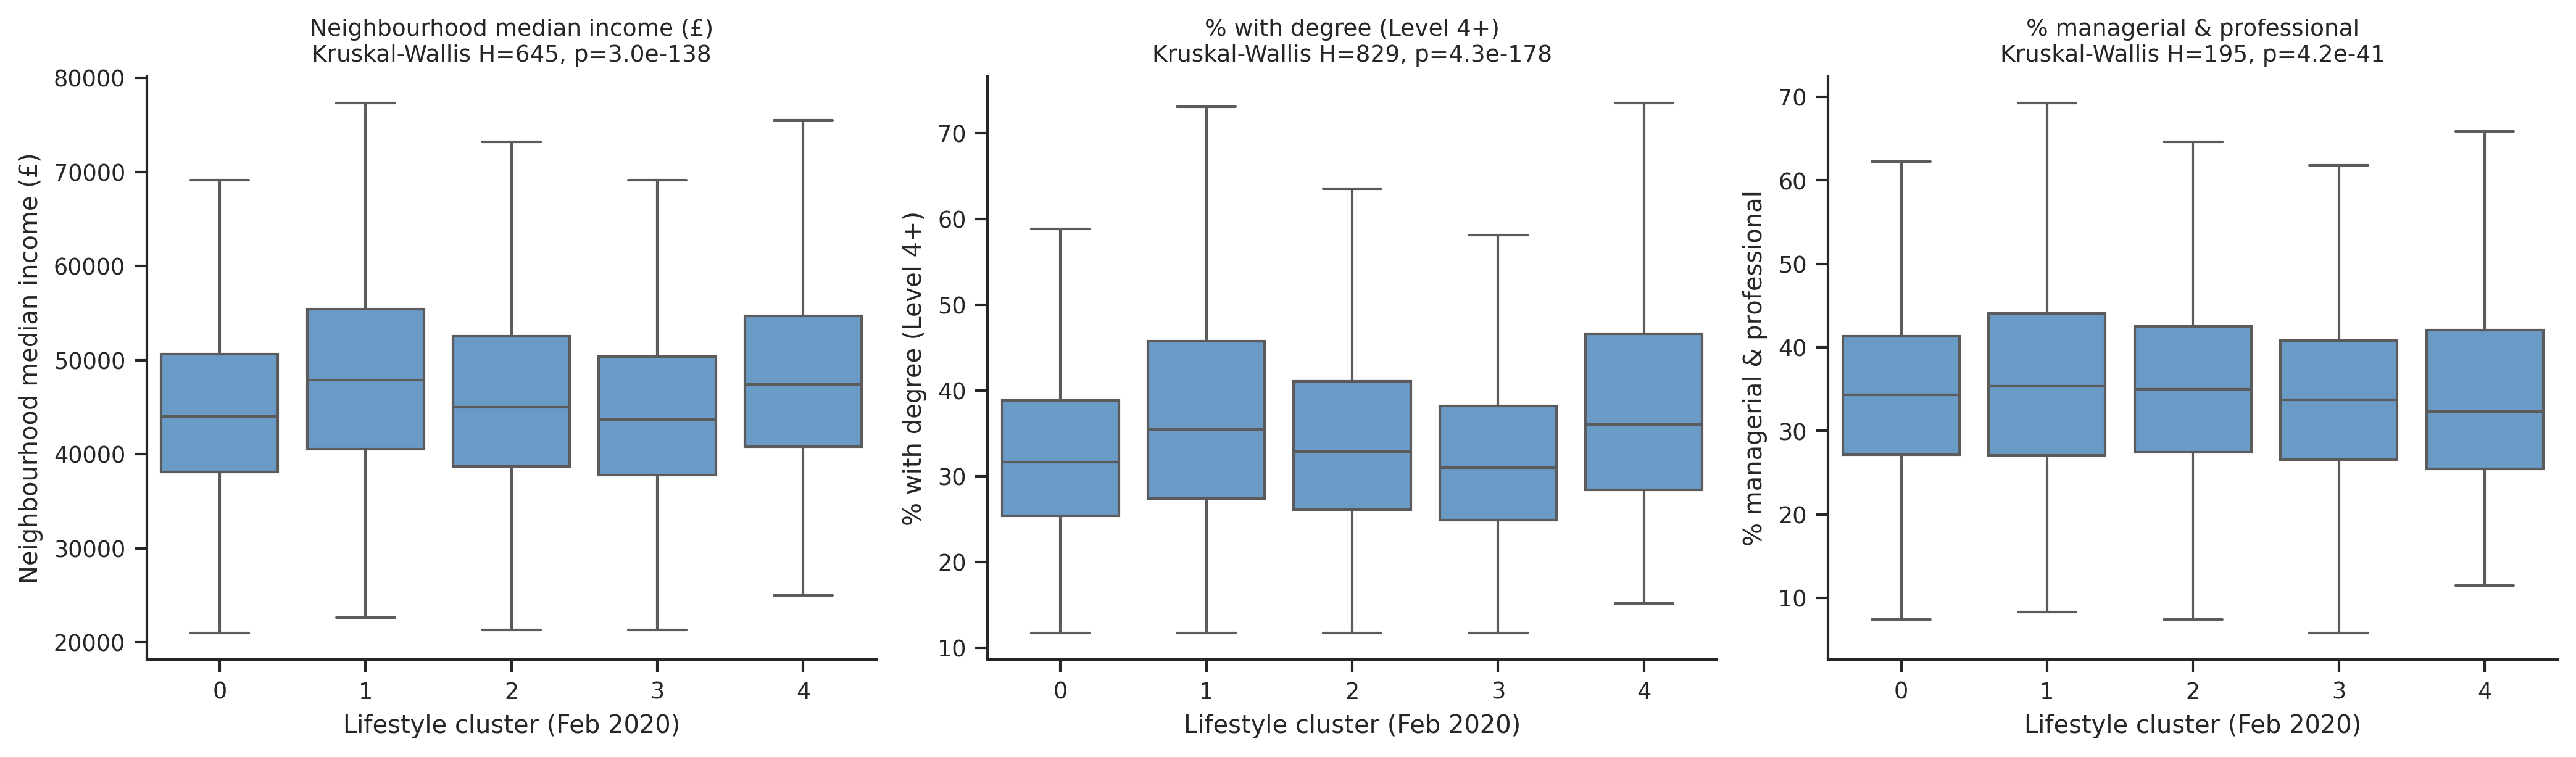
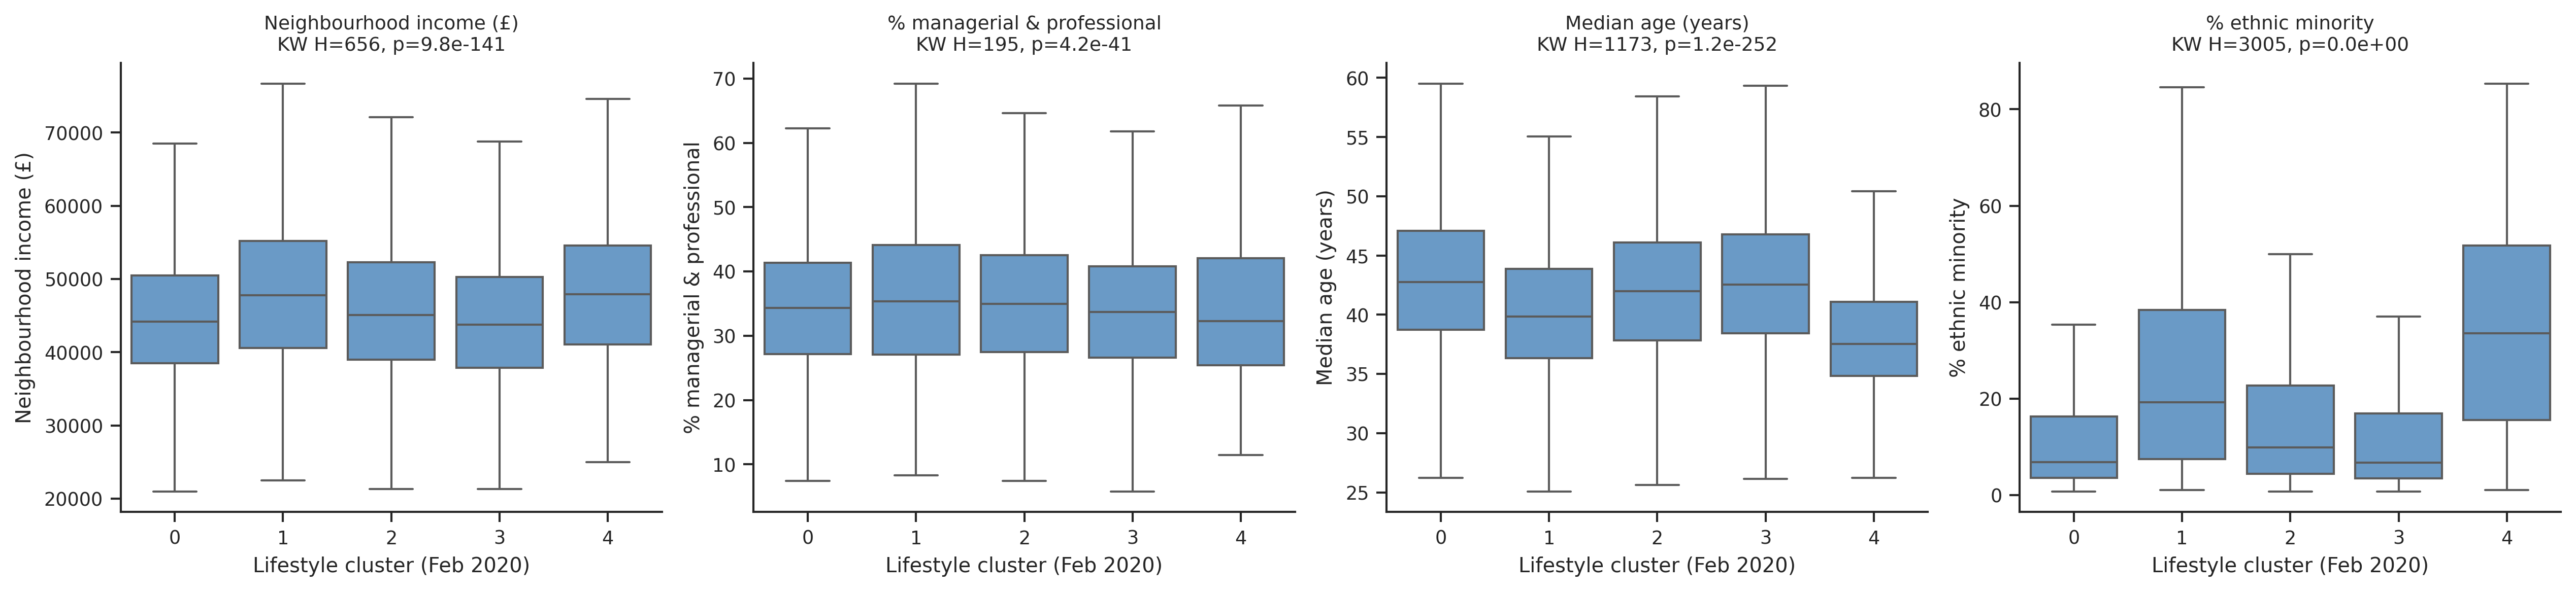
Extend SES analysis to 4 neighbourhood dimensions (income/occupation/age/ethnicity)
ses_analysis: now covers income (MSOA-aggregated), occupation (TS062 % managerial/
professional), and demographics age (TS007a median age) + ethnicity (TS021 % non-White),
all at MSOA level.
- A_ses_by_cluster.png  : 4 dimensions by lifestyle cluster (+ Kruskal-Wallis)
- B_stability_by_ses.png: cluster stability Feb2020->Mar2021 by tercile of each dimension
Inertia higher in lower-income/older/less-diverse areas; lower in affluent/young/diverse.

Device-level table and Census bulk files not committed (only figures + script + README).

diff --git a/ses_analysis/ses_analysis.py b/ses_analysis/ses_analysis.py
@@ -1,11 +1,14 @@
 #!/usr/bin/env python
 """
 Socioeconomic heterogeneity of lifestyle clusters and behavioral inertia.
-  - Clusters: reproduce the paper's KMeans (k=5, reference-aligned) from England_ML.csv
-  - Home geography + income: final_analysis_data.csv (device -> home MSOA, income_2018)
-  - Census SES (2021, MSOA): TS067 education (% Level 4+), TS062 NS-SeC (% managerial/professional)
-  Analysis A: boxplots of SES by lifestyle cluster (+ Kruskal-Wallis)
-  Analysis B: lifestyle-cluster stability (2020-02 -> 2021-03) by SES group (+ chi-square)
+Four neighbourhood (MSOA-level) dimensions:
+  income           - income_2018 aggregated to MSOA mean (native value is ~LSOA-level)
+  occupational     - pct_manag_prof : Census 2021 TS062 NS-SeC, % managerial & professional
+  demographic/age  - median_age     : Census 2021 TS007a (from 5-year bands)
+  demographic/eth  - pct_minority   : Census 2021 TS021, % non-White
+Clusters = paper's KMeans (k=5, reference-aligned) from England_ML.csv; linked via home MSOA.
+  Analysis A: boxplots of each dimension by lifestyle cluster (+ Kruskal-Wallis)
+  Analysis B: cluster stability (Feb 2020 -> Mar 2021) by tercile of each dimension (+ chi-square)
 """
 import warnings; warnings.filterwarnings("ignore")
 import os, io, zipfile
@@ -18,12 +21,9 @@ import matplotlib; matplotlib.use("Agg")
 import matplotlib.pyplot as plt
 import seaborn as sns
 
-ML = "/workplace/Mob/ML"
-FA = "/workplace/Mob/fig_output/final_analysis_data.csv"
-CEN = "/workplace/Mob/census_2021"
-OUT = "/workplace/Mob/ses_analysis"; os.makedirs(OUT, exist_ok=True)
-BASE = ['workplace_frequency', 't1_frequency', 't3_frequency', 't5_frequency',
-        't6_frequency', 't8_frequency', 't9_frequency']
+ML = "/workplace/Mob/ML"; FA = "/workplace/Mob/fig_output/final_analysis_data.csv"
+CEN = "/workplace/Mob/census_2021"; OUT = "/workplace/Mob/ses_analysis"; os.makedirs(OUT, exist_ok=True)
+BASE = ['workplace_frequency','t1_frequency','t3_frequency','t5_frequency','t6_frequency','t8_frequency','t9_frequency']
 REF = np.array([[0.4,1.2,0.4,0.9,1.0,1.9,0.3],[0.6,4.7,1.5,3.0,3.3,6.5,0.8],
                 [0.6,2.6,0.9,1.8,2.0,3.8,0.6],[0.8,1.2,0.4,0.9,0.9,1.9,0.2],
                 [0.7,8.9,2.9,5.4,6.2,12.1,1.2]])
@@ -31,100 +31,110 @@ REF = np.array([[0.4,1.2,0.4,0.9,1.0,1.9,0.3],[0.6,4.7,1.5,3.0,3.3,6.5,0.8],
 
 def get_clusters():
     df = pd.read_csv(f"{ML}/England_ML.csv")
-    feb = df[df.month == 202002].copy(); mar = df[df.month == 202003].copy(); mar21 = df[df.month == 202103].copy()
+    feb = df[df.month==202002].copy(); mar = df[df.month==202003].copy(); mar21 = df[df.month==202103].copy()
     for c in BASE:
-        feb[f"{c}_z"] = stats.zscore(feb[c]); mar[f"{c}_z"] = stats.zscore(mar[c]); mar21[f"{c}_z"] = stats.zscore(mar21[c])
-    mar21.columns = ['device_aid'] + [c + '_202103' for c in mar21.columns[1:]]
-    tem = feb.merge(mar, on='device_aid', how='inner', suffixes=('_202002', '_202003'))
-    ds = tem.merge(mar21, on='device_aid', how='inner', suffixes=('', '_202103'))
+        feb[f"{c}_z"]=stats.zscore(feb[c]); mar[f"{c}_z"]=stats.zscore(mar[c]); mar21[f"{c}_z"]=stats.zscore(mar21[c])
+    mar21.columns = ['device_aid'] + [c+'_202103' for c in mar21.columns[1:]]
+    tem = feb.merge(mar, on='device_aid', how='inner', suffixes=('_202002','_202003'))
+    ds = tem.merge(mar21, on='device_aid', how='inner', suffixes=('','_202103'))
     z = [f"{x}_z" for x in BASE]
-    X02 = ds[[i + '_202002' for i in z]].copy(); X03 = ds[[i + '_202003' for i in z]].copy(); X13 = ds[[i + '_202103' for i in z]].copy()
-    g = ['workplace', 'a1', 'a3', 'a5', 'a6', 'a8', 'a9']; X02.columns = X03.columns = X13.columns = g
-    k = 5; lab = KMeans(n_clusters=k, random_state=42, n_init=10).fit(pd.concat([X02, X03, X13])).labels_
-    n2 = len(X02)
-    ds['cluster_202002'] = lab[:n2]; ds['cluster_202003'] = lab[n2:2*n2]; ds['cluster_202103'] = lab[2*n2:]
-    feb_cols = [f'{c}_202002' for c in BASE]
-    mine = ds.groupby('cluster_202002')[feb_cols].mean().reindex(range(k)).values
-    r, c = linear_sum_assignment(cdist(mine, REF)); remap = {int(a): int(b) for a, b in zip(r, c)}
-    for col in ['cluster_202002', 'cluster_202003', 'cluster_202103']:
-        ds[col] = ds[col].map(remap)
-    print(f"[INFO] clustered devices: {len(ds):,}  | remap mine->ref {remap}")
-    return ds[['device_aid', 'cluster_202002', 'cluster_202003', 'cluster_202103']]
+    X = [ds[[i+s for i in z]].copy() for s in ['_202002','_202003','_202103']]
+    g = ['workplace','a1','a3','a5','a6','a8','a9']
+    for x in X: x.columns = g
+    lab = KMeans(n_clusters=5, random_state=42, n_init=10).fit(pd.concat(X)).labels_
+    n2 = len(X[0])
+    ds['cluster_202002']=lab[:n2]; ds['cluster_202003']=lab[n2:2*n2]; ds['cluster_202103']=lab[2*n2:]
+    mine = ds.groupby('cluster_202002')[[f'{c}_202002' for c in BASE]].mean().reindex(range(5)).values
+    r,c = linear_sum_assignment(cdist(mine, REF)); remap = {int(a):int(b) for a,b in zip(r,c)}
+    for col in ['cluster_202002','cluster_202003','cluster_202103']: ds[col] = ds[col].map(remap)
+    print(f"[INFO] clustered devices: {len(ds):,} | remap {remap}")
+    return ds[['device_aid','cluster_202002','cluster_202003','cluster_202103']]
+
+
+def _read_msoa(tbl):
+    z = zipfile.ZipFile(f"{CEN}/{tbl}.zip")
+    return pd.read_csv(io.BytesIO(z.read([n for n in z.namelist() if 'msoa' in n][0])))
 
 
 def census_ses():
-    z67 = zipfile.ZipFile(f"{CEN}/ts067.zip"); edu = pd.read_csv(io.BytesIO(z67.read("census2021-ts067-msoa.csv")))
-    tcol = [c for c in edu.columns if 'Total' in c][0]
-    edu['pct_degree'] = edu['Highest level of qualification: Level 4 qualifications and above'] / edu[tcol] * 100
-    edu = edu[['geography code', 'pct_degree']].rename(columns={'geography code': 'msoa'})
-    z62 = zipfile.ZipFile(f"{CEN}/ts062.zip"); occ = pd.read_csv(io.BytesIO(z62.read([n for n in z62.namelist() if 'msoa' in n][0])))
+    # occupation: NS-SeC managerial & professional (L1-L6)
+    occ = _read_msoa("ts062")
     tot = occ[[c for c in occ.columns if 'Total: All usual residents' in c][0]]
-    hi = occ[[c for c in occ.columns if 'L1, L2 and L3' in c][0]]
-    lo = occ[[c for c in occ.columns if 'L4, L5 and L6' in c][0]]
-    occ['pct_manag_prof'] = (hi + lo) / tot * 100
-    occ = occ[['geography code', 'pct_manag_prof']].rename(columns={'geography code': 'msoa'})
-    return edu.merge(occ, on='msoa', how='outer')
+    hi = occ[[c for c in occ.columns if 'L1, L2 and L3' in c][0]]; lo = occ[[c for c in occ.columns if 'L4, L5 and L6' in c][0]]
+    occ['pct_manag_prof'] = (hi+lo)/tot*100
+    out = occ[['geography code','pct_manag_prof']].rename(columns={'geography code':'msoa'})
+    # age: median age from 5-year bands
+    age = _read_msoa("ts007a")
+    band_cols = [c for c in age.columns if c.startswith('Age: Aged')]
+    lowers = [0,5,10,15,20,25,30,35,40,45,50,55,60,65,70,75,80,85]
+    widths = [5]*17 + [10]
+    counts = age[band_cols].values.astype(float); total = counts.sum(axis=1)
+    cum = np.cumsum(counts, axis=1); half = total/2
+    med = np.empty(len(age))
+    for i in range(len(age)):
+        b = np.searchsorted(cum[i], half[i])
+        F = cum[i, b-1] if b > 0 else 0.0
+        f = counts[i, b] if counts[i, b] > 0 else 1.0
+        med[i] = lowers[b] + (half[i]-F)/f * widths[b]
+    age['median_age'] = med
+    out = out.merge(age[['geography code','median_age']].rename(columns={'geography code':'msoa'}), on='msoa', how='outer')
+    # ethnicity: % non-White
+    eth = _read_msoa("ts021")
+    etot = eth[[c for c in eth.columns if c.endswith('Total: All usual residents')][0]]
+    white = eth['Ethnic group: White']
+    eth['pct_minority'] = (etot-white)/etot*100
+    out = out.merge(eth[['geography code','pct_minority']].rename(columns={'geography code':'msoa'}), on='msoa', how='outer')
+    return out
 
 
-# ---------------- join ----------------
+# ---------------- join (everything at MSOA) ----------------
 clusters = get_clusters()
-geo = pd.read_csv(FA, usecols=['device_aid', 'home_2021_msoa_code', 'income_2018']).rename(columns={'home_2021_msoa_code': 'msoa'})
+geo = pd.read_csv(FA, usecols=['device_aid','home_2021_msoa_code','income_2018']).rename(columns={'home_2021_msoa_code':'msoa'})
 geo['income_2018'] = pd.to_numeric(geo['income_2018'], errors='coerce')
-ses = census_ses()
-d = clusters.merge(geo, on='device_aid', how='left')
+# income -> MSOA mean (uniform MSOA level; native income_2018 is ~LSOA-level)
+inc_msoa = geo.groupby('msoa')['income_2018'].mean().rename('income_msoa')
+d = clusters.merge(geo[['device_aid','msoa']], on='device_aid', how='left')
 matched = d['msoa'].notna()
-print(f"[INFO] clustered with home geo: {matched.sum():,} / {len(d):,} ({matched.mean():.1%})")
-# selection check: cluster distribution matched vs unmatched
-chk = pd.concat([d[matched]['cluster_202002'].value_counts(normalize=True).rename('matched'),
-                 d[~matched]['cluster_202002'].value_counts(normalize=True).rename('unmatched')], axis=1).sort_index()
-print("[INFO] cluster_202002 share (matched vs unmatched):\n", (chk * 100).round(1).to_string())
-d = d[matched].merge(ses, on='msoa', how='left')
+print(f"[INFO] clustered with home MSOA: {matched.sum():,}/{len(d):,} ({matched.mean():.1%})")
+d = d[matched].merge(inc_msoa, on='msoa', how='left').merge(census_ses(), on='msoa', how='left')
 
-SES_VARS = [('income_2018', 'Neighbourhood median income (£)'),
-            ('pct_degree', '% with degree (Level 4+)'),
-            ('pct_manag_prof', '% managerial & professional')]
+DIMS = [('income_msoa', 'Neighbourhood income (£)'),
+        ('pct_manag_prof', '% managerial & professional'),
+        ('median_age', 'Median age (years)'),
+        ('pct_minority', '% ethnic minority')]
 sns.set_context("paper"); sns.set_style("ticks")
 
-# ---------------- Analysis A: SES by lifestyle cluster ----------------
-fig, axs = plt.subplots(1, 3, figsize=(14, 4.2))
-for ax, (var, lab) in zip(axs, SES_VARS):
+# ---------------- Analysis A ----------------
+fig, axs = plt.subplots(1, 4, figsize=(17, 4.0))
+print("\n[A] mean by lifestyle cluster (Feb 2020):")
+for ax, (var, lab) in zip(axs, DIMS):
     sub = d.dropna(subset=[var, 'cluster_202002'])
     sns.boxplot(data=sub, x='cluster_202002', y=var, ax=ax, showfliers=False, color='#5b9bd5')
-    groups = [g[var].values for _, g in sub.groupby('cluster_202002')]
-    H, p = stats.kruskal(*groups)
-    ax.set_title(f"{lab}\nKruskal-Wallis H={H:.0f}, p={p:.1e}", fontsize=9)
+    H, p = stats.kruskal(*[g[var].values for _, g in sub.groupby('cluster_202002')])
+    ax.set_title(f"{lab}\nKW H={H:.0f}, p={p:.1e}", fontsize=9)
     ax.set_xlabel('Lifestyle cluster (Feb 2020)'); ax.set_ylabel(lab)
+print(d.groupby('cluster_202002')[[v for v, _ in DIMS]].mean().round(1).to_string())
 sns.despine(); plt.tight_layout()
 plt.savefig(f"{OUT}/A_ses_by_cluster.png", dpi=300, bbox_inches='tight'); plt.close()
 print(f"[FIG] {OUT}/A_ses_by_cluster.png")
 
-# cluster-level SES means table
-print("\n[A] mean SES by lifestyle cluster (Feb 2020):")
-print(d.groupby('cluster_202002')[[v for v, _ in SES_VARS]].mean().round(1).to_string())
-
-# ---------------- Analysis B: stability by SES group ----------------
-d['stable_2020'] = (d['cluster_202002'] == d['cluster_202003']).astype(int)   # Feb2020 -> Mar2020
-d['stable_covid'] = (d['cluster_202002'] == d['cluster_202103']).astype(int)  # Feb2020 -> Mar2021
-sub = d.dropna(subset=['income_2018']).copy()
-sub['SES_group'] = pd.qcut(sub['income_2018'], 3, labels=['Low', 'Medium', 'High'])
-rate = (sub.groupby('SES_group')[['stable_2020', 'stable_covid']].mean() * 100)
-n_grp = sub.groupby('SES_group').size()
-print("\n[B] stability rate (%) by income SES group:")
-print(rate.round(1).assign(n=n_grp).to_string())
-ct = pd.crosstab(sub['SES_group'], sub['stable_covid'])
-chi2, p, dof, _ = stats.chi2_contingency(ct)
-print(f"[B] chi-square (SES x stable Feb2020->Mar2021): chi2={chi2:.1f}, dof={dof}, p={p:.2e}")
-
-fig, ax = plt.subplots(figsize=(6.5, 4.5))
-rate.rename(columns={'stable_2020': 'Feb 2020 → Mar 2020', 'stable_covid': 'Feb 2020 → Mar 2021'}).plot(
-    kind='bar', ax=ax, color=['#9ecae1', '#3182bd'], width=0.8, edgecolor='black', linewidth=0.4)
-ax.set_ylabel('Stayed in same lifestyle cluster (%)'); ax.set_xlabel('Neighbourhood income group')
-ax.set_title(f"Lifestyle-cluster stability by SES\nchi-square (COVID transition) p={p:.1e}", fontsize=10)
-ax.legend(frameon=False, title=None); plt.xticks(rotation=0)
+# ---------------- Analysis B ----------------
+d['stable_covid'] = (d['cluster_202002'] == d['cluster_202103']).astype(int)  # Feb 2020 -> Mar 2021
+fig, axs = plt.subplots(1, 4, figsize=(17, 4.0))
+print("\n[B] cluster stability (Feb2020->Mar2021, %) by tercile:")
+for ax, (var, lab) in zip(axs, DIMS):
+    sub = d.dropna(subset=[var]).copy()
+    sub['grp'] = pd.qcut(sub[var].rank(method='first'), 3, labels=['Low', 'Medium', 'High'])
+    rate = sub.groupby('grp')['stable_covid'].mean() * 100
+    chi2, p, dof, _ = stats.chi2_contingency(pd.crosstab(sub['grp'], sub['stable_covid']))
+    rate.plot(kind='bar', ax=ax, color=['#9ecae1', '#4292c6', '#08519c'], width=0.8, edgecolor='black', linewidth=0.4)
+    ax.set_title(f"{lab}\nchi2 p={p:.1e}", fontsize=9)
+    ax.set_xlabel(''); ax.set_ylabel('Stayed in same cluster (%)'); ax.set_ylim(0, 60)
+    plt.setp(ax.get_xticklabels(), rotation=0)
+    print(f"  {var:16}: " + "  ".join(f"{k}={v:.1f}" for k, v in rate.items()) + f"  (chi2 p={p:.1e})")
 sns.despine(); plt.tight_layout()
 plt.savefig(f"{OUT}/B_stability_by_ses.png", dpi=300, bbox_inches='tight'); plt.close()
 print(f"[FIG] {OUT}/B_stability_by_ses.png")
 
-# save the joined analysis table (no raw device data beyond clusters+area SES)
 d.to_csv(f"{OUT}/clusters_with_ses.csv", index=False)
-print(f"\n[DONE] outputs in {OUT}")
+print(f"\n[DONE] {OUT}")

diff --git a/ses_analysis/README.md b/ses_analysis/README.md
@@ -2,36 +2,50 @@
 
 Addresses reviewer concerns on (a) the socioeconomic dimension of behavioral inertia and
 (b) analytical independence of K-means vs the fixed-effects models — the SES variables are
-**external** (UK Census 2021), so this is independent validation, not the same data re-confirming itself.
+**external** (UK Census 2021 + ONS income), so this is independent validation, not the same
+data re-confirming itself.
 
-`ses_analysis.py` — pipeline (run with the data files in place):
+`ses_analysis.py` pipeline:
 1. Reproduce the paper's KMeans clusters (k=5, reference-aligned) from `England_ML.csv`.
 2. Link `device → home MSOA` via `final_analysis_data.csv` (also gives `income_2018`).
-3. Build MSOA-level SES from **2021 Census** (Nomis bulk): `pct_degree` (TS067, % Level 4+),
-   `pct_manag_prof` (TS062 NS-SeC, % managerial & professional). Home MSOA codes match the
-   2021 census codes at ~98%.
+3. Build four **neighbourhood (MSOA-level)** SES/demographic dimensions, join on home MSOA.
+
+| Dimension | Variable | Source | Level |
+|-----------|----------|--------|-------|
+| Income | `income_msoa` | ONS income (`income_2018`) averaged to MSOA | MSOA* |
+| Occupational | `pct_manag_prof` (% NS-SeC L1–L6) | Census 2021 **TS062** | MSOA |
+| Demographic – age | `median_age` (from 5-yr bands) | Census 2021 **TS007a** | MSOA |
+| Demographic – ethnicity | `pct_minority` (% non-White) | Census 2021 **TS021** | MSOA |
+
+\* `income_2018` is natively ~LSOA-level; aggregated to the MSOA mean so all four dimensions
+are uniformly MSOA. Home MSOA codes match the 2021 census codes at ~98%.
 
 ## Analysis A — SES by lifestyle cluster (`A_ses_by_cluster.png`)
-Boxplots of income / % degree / % managerial-professional by cluster (+ Kruskal-Wallis).
-Lifestyle clusters **are** socioeconomically stratified: higher-activity clusters sit in
-higher-income, higher-education neighbourhoods. Effect sizes are modest (≈£3.5k median income,
-≈5pp degree).
+Boxplots of each dimension by cluster (+ Kruskal-Wallis). Lifestyle clusters **are**
+socioeconomically stratified; ethnicity and age separate them most strongly — the
+high-activity cluster is younger, more ethnically diverse and higher-income.
 
-## Analysis B — inertia by SES group (`B_stability_by_ses.png`)
-Share staying in the same lifestyle cluster, Feb 2020 → Mar 2020 and Feb 2020 → Mar 2021,
-by neighbourhood-income tercile. Higher-income areas are **less** stable over COVID
-(47.9% Low → 44.1% High for the 2021 transition; χ² p≈2e-13) — i.e. behavioral inertia is
-stronger in lower-SES neighbourhoods.
+## Analysis B — inertia by SES tercile (`B_stability_by_ses.png`)
+Share staying in the same lifestyle cluster Feb 2020 → Mar 2021, by tercile of each dimension.
+
+| Dimension | Direction | Low → High stability |
+|-----------|-----------|----------------------|
+| Income | higher → less inertia | 47.7 → 44.1% |
+| % managerial/professional | higher → less inertia | 47.7 → 45.0% |
+| Median age | older → **more** inertia | 45.3 → 47.9% |
+| % ethnic minority | more diverse → less inertia | 49.1 → 44.0% |
+
+Coherent story: affluent / younger / more-diverse neighbourhoods changed behaviour more
+during COVID (lower inertia); lower-SES / older / more-homogeneous areas were more "stuck".
 
 ## Caveats (for the rebuttal)
 - **Ecological**: SES is neighbourhood (MSOA) level, not individual — report as "neighbourhood SES".
-- **Coverage**: 50,648 / 105,347 clustered devices (48%) have home geography; cluster mix of the
-  matched vs unmatched subsample is similar (no strong selection), but should be reported.
+- **Coverage**: 50,648 / 105,347 clustered devices (48%) have home geography; matched vs unmatched
+  cluster mix is similar (no strong selection) but should be reported.
 - **Pseudo-replication**: many devices share an MSOA, so the very small p-values reflect N +
-  non-independence, not large effects. A final version should aggregate to MSOA or use a
-  mixed model (MSOA random effect).
+  non-independence, not large effects (effects are ≈3–5 pp). A final version should aggregate to
+  MSOA or use a mixed model (MSOA random effect).
 
-Data note: the device-level joined table (`clusters_with_ses.csv`) contains device IDs + home
-MSOA and is **not** committed.
-
-Sources: ONS Census 2021 via Nomis bulk (`census2021-ts067`, `census2021-ts062`).
+Data note: the device-level joined table (`clusters_with_ses.csv`, device IDs + home MSOA) and the
+Census bulk files are **not** committed. Census tables: ONS Census 2021 via Nomis bulk
+(`census2021-ts062 / ts007a / ts021`).